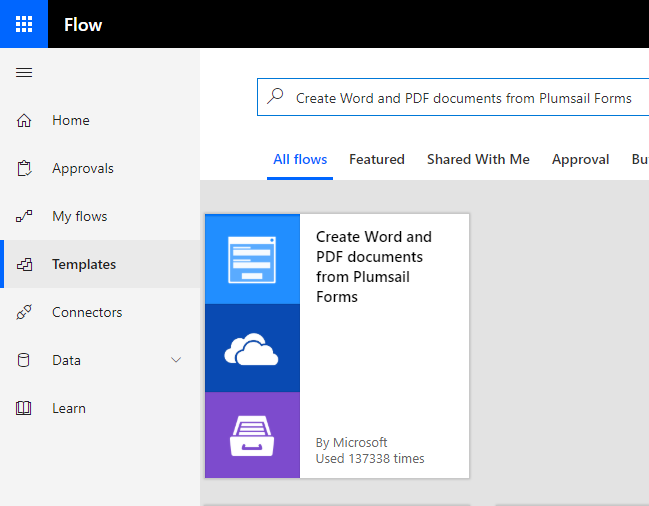
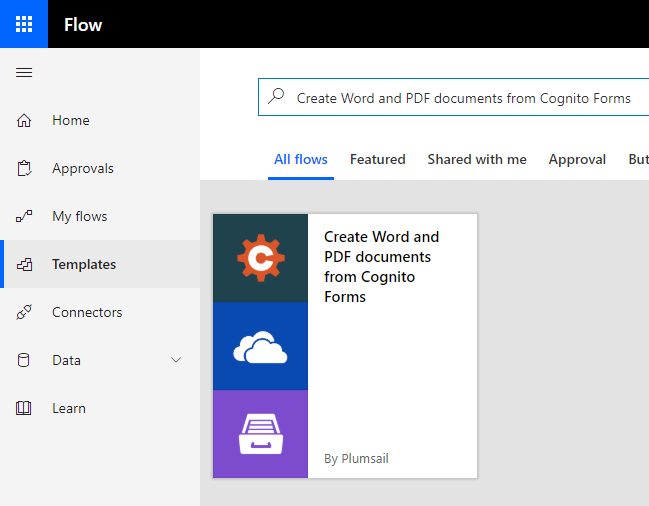
Adding information about MS Templates

diff --git a/source/flow/how-tos/documents/create-word-and-pdf-documents-from-cognito-forms.rst b/source/flow/how-tos/documents/create-word-and-pdf-documents-from-cognito-forms.rst
@@ -31,7 +31,7 @@ We need to create a Microsoft Flow that will be triggered by a Cognito Form subm
 .. image:: ../../../_static/img/flow/how-tos/Cognito-Forms-DOCX-PDF-flow.png
     :alt: Creating Word and PDF documents from Cognito Forms flow
 
-**We prepared a Microsoft Flow Template that you can use right away.** It includes all the steps described in this article. To use the template just go to MS Flow, click *Templates* in the left navigation, type *Create Word and PDF documents from Plumsail Forms* and hit *Enter*. You will see the template. You may use it as-is or customize it to, for example, store documents in another storage platform.
+**We prepared a Microsoft Flow Template that you can use right away.** It includes all the steps described in this article. To use the template just go to MS Flow, click *Templates* in the left navigation, type *Create Word and PDF documents from Cognito Forms* and hit *Enter*. You will see the template. You may use it as-is or customize it to, for example, store documents in another storage platform.
 
 .. image:: ../../../_static/img/flow/how-tos/MS-Flow-template-cognito-docx.png
     :alt: Microsoft Flow Template Create Word and PDF documents from Cognito Forms

diff --git a/source/flow/how-tos/documents/create-word-and-pdf-documents-from-plumsail-forms.rst b/source/flow/how-tos/documents/create-word-and-pdf-documents-from-plumsail-forms.rst
@@ -31,6 +31,11 @@ We need to create a Microsoft Flow that will be triggered by a Plumail Form subm
 .. image:: ../../../_static/img/flow/how-tos/Plumsail-Forms-DOCX-PDF-flow.png
     :alt: Creating Word and PDF documents from Plumsail Forms flow
 
+**We prepared a Microsoft Flow Template that you can use right away.** It includes all the steps described in this article. To use the template just go to MS Flow, click *Templates* in the left navigation, type *Create Word and PDF documents from Plumsail Forms* and hit *Enter*. You will see the template. You may use it as-is or customize it to, for example, store documents in another storage platform.
+
+.. image:: ../../../_static/img/flow/how-tos/MS-Flow-template-plumsail-docx.png
+    :alt: Microsoft Flow Template Create Word and PDF documents from Plumsail Forms
+
 Description of Microsoft Flow Actions
 -------------------------------------
 

diff --git a/source/flow/how-tos/documents/create-word-and-pdf-documents-from-typeform.rst b/source/flow/how-tos/documents/create-word-and-pdf-documents-from-typeform.rst
@@ -31,6 +31,11 @@ We need to create a Microsoft Flow that will be triggered by a Typeform submissi
 .. image:: ../../../_static/img/flow/how-tos/Typeform-DOCX-PDF-flow.png
     :alt: Creating Word and PDF documents from Typeform flow
 
+**We prepared a Microsoft Flow Template that you can use right away.** It includes all the steps described in this article. To use the template just go to MS Flow, click *Templates* in the left navigation, type *Create Word and PDF documents from Typeform* and hit *Enter*. You will see the template. You may use it as-is or customize it to, for example, store documents in another storage platform.
+
+.. image:: ../../../_static/img/flow/how-tos/MS-Flow-template-typeform-docx.png
+    :alt: Microsoft Flow Template Create Word and PDF documents from Typeform
+
 Description of Microsoft Flow Actions
 -------------------------------------
 
